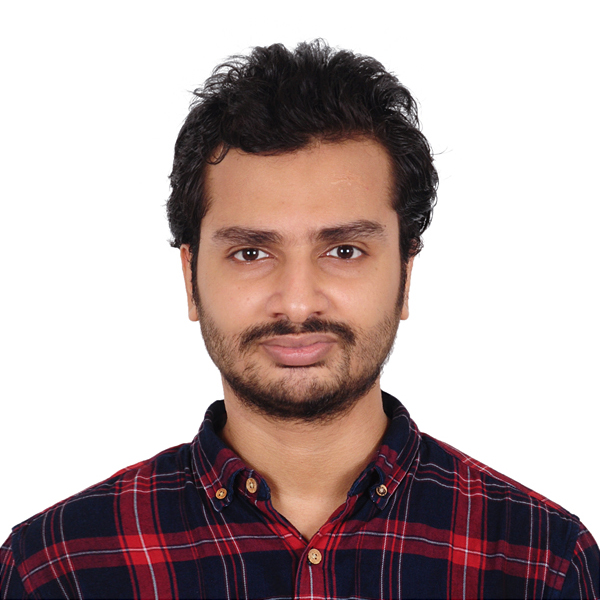
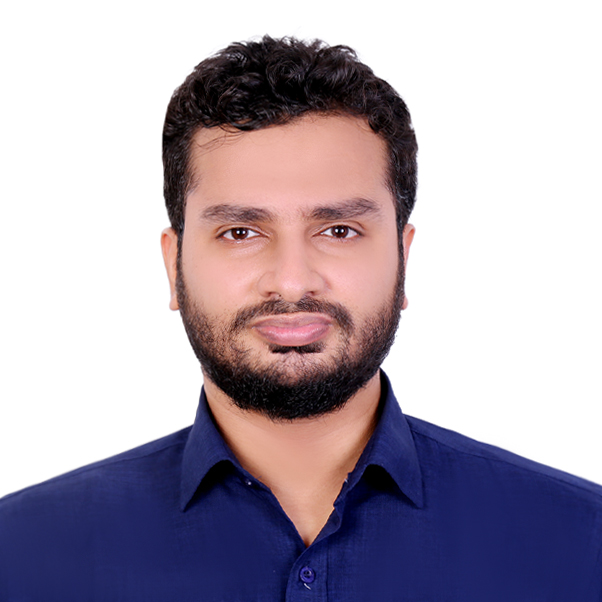
updated

diff --git a/src/Components/About/About.jsx b/src/Components/About/About.jsx
@@ -17,8 +17,10 @@ const About = () => {
             </div>
             <div className='about-right'>
                 <div className='about-para'>
-                    <p>During my academic years, I was the go-to person whenever classmates had issues with their phones or laptops. I was known for resolving any technical challenges that came my way.</p>
-                    <p>Today, not much has changed, I'm still the first point of contact for technical issues. However, now my focus has expanded to developing innovative software solutions. I hold a Bachelor's degree in Computer Science from United International University and currently working as a Frontend Developer with a specialization in React.js. I am also expanding my expertise in Next.js. Additionally, I have strong skills in raw CSS, vanilla JavaScript, and C programming as well.</p>
+                    <p>Communications and media professional with 9+ years of experience in journalism, digital content, media relations, audience engagement, and editorial work. Currently working as a Senior Correspondent at Cricfrenzy, with experience in content planning, research, interviews, storytelling, and digital communications. I also hold a BSc in Computer Science & Engineering and have hands-on experience with React.js and Next.js, giving me a strong mix of communication skills and technical knowledge. I have worked closely with editorial, production, and digital teams to create engaging content, manage projects, and meet tight deadlines. I am now looking to bring this experience into a corporate communications or public relations role, where I can build meaningful communication, manage media relationships, and contribute to a company’s brand and reputation.
+</p>
+                    <p>I combine professional communication experience with a technology background, holding a BSc in Computer Science & Engineering and hands-on React.js and Next.js experience. My work centers on communication, storytelling, and audience understanding, supported by technical skills for today’s digital-first environments. I have also built my own portfolio website, allowing me to put my technical skills into practice and better understand the digital side of communication.
+</p>
                     <p>For further inquiries feel free to reach out via mail at intesarshawon@gmail.com or contact me at +880-1676 331312</p>
                 </div>
                 <div className='about-skills'>
@@ -53,13 +55,13 @@ const About = () => {
 
         <div className='about-achievements'>
             <div className='about-achievement'>
-                <h1>2+</h1>
+                <h1>5+</h1>
                 <p>Years of Experience in Vanila JavaScript</p>
             </div>
             <hr/>
             <div className='about-achievement'>
-                <h1>8</h1>
-                <p>Months of Experience in React</p>
+                <h1>2+</h1>
+                <p>Years of Experience in React</p>
             </div>
             <hr/>
             <div className='about-achievement'>

diff --git a/src/Components/Services/Services.jsx b/src/Components/Services/Services.jsx
@@ -7,11 +7,21 @@ const Services = () => {
   return (
     <div id='services' className='services'>
         <div className='services-title'>
-            <h1>My Services</h1>
+            {/* <h1>My Services</h1> */}
+            <h1>Skills</h1>
             <img src={theme_pattern} alt='theme_pattern' />
         </div>
         <div className='services-container'>
-              <p>Before my graduation, I worked for Cricfrenzy.com as a part-time contributor, writing content about sports. After my graduation , In 2020 I developed an interest in learning frontend development. Since then, I have gradually learned about html, CSS, and JavaScript. I also worked with our backend developer as an instructor to improve our site. During this time, I was working as a content creator by writing sports article and also a frontend developer, implementing necessary changes to the site on a weekly basis as the design evolved. In 2024, I began focusing on learning React JS while I have no professional experience as a React developer, but my solid foundation in html, CSS, and vanilla JavaScript gives me the confidence to build extensively with React. I am also aiming to complete my learning of Next.js in the near future.</p>
+              {/* <p>Before my graduation, I worked for Cricfrenzy.com as a part-time contributor, writing content about sports. After my graduation , In 2020 I developed an interest in learning frontend development. Since then, I have gradually learned about html, CSS, and JavaScript. I also worked with our backend developer as an instructor to improve our site. During this time, I was working as a content creator by writing sports article and also a frontend developer, implementing necessary changes to the site on a weekly basis as the design evolved. In 2024, I began focusing on learning React JS while I have no professional experience as a React developer, but my solid foundation in html, CSS, and vanilla JavaScript gives me the confidence to build extensively with React. I am also aiming to complete my learning of Next.js in the near future.</p> */}
+              <p>Corporate & Strategic Communications</p>
+              <p>Content Strategy , News & Feature Writing</p>
+              <p>Editing, Proofreading & Documentation</p>
+              <p>Research, Analysis, Storytelling & Digital Communications</p>
+              <p>Team Lead & Deadline Management</p>
+              <p>Project Management & Media Coverage</p>
+              <p>Video Content & Digital Marketing</p>
+              <p>Web Development, React.js, Next.js & JavaScript</p>
+
         </div>
     </div>
   )

diff --git a/src/Components/Navbar/Navbar.jsx b/src/Components/Navbar/Navbar.jsx
@@ -44,7 +44,7 @@ const Navbar = () => {
             <img className='nav-mob-close' src={menu_close} alt='menu_close' onClick={closeMenu} />
             <li><AnchorLink className='anchor-link' href='#home'><p onClick={()=> setMenu('home')}>Home</p></AnchorLink>{menu==='home' ? <img src={underline} alt='underline'/> : <></>}</li>
             <li><AnchorLink className='anchor-link' offset={50} href='#about'><p onClick={()=> setMenu('about')}>About Me</p></AnchorLink>{menu === 'about' ? <img src={underline} alt='underline'/> : <></>}</li>
-            <li><AnchorLink className='anchor-link' offset={50} href='#services'><p onClick={()=> setMenu('services')}>Services</p></AnchorLink>{menu === 'services' ? <img src={underline} alt='underline'/> : <></>}</li>
+            <li><AnchorLink className='anchor-link' offset={50} href='#services'><p onClick={()=> setMenu('services')}>Skills</p></AnchorLink>{menu === 'services' ? <img src={underline} alt='underline'/> : <></>}</li>
             <li><AnchorLink className='anchor-link' offset={50} href='#mywork'><p onClick={()=> setMenu('work')}>Portfolio</p></AnchorLink>{menu === 'work' ? <img src={underline} alt='underline'/> : <></>}</li>
             <li><AnchorLink className='anchor-link' offset={50} href='#contact'><p onClick={()=> setMenu('contact')}>Contact</p></AnchorLink>{menu === 'contact' ? <img src={underline} alt='underline'/> : <></>}</li>
         </ul>

diff --git a/src/Components/Hero/Hero.jsx b/src/Components/Hero/Hero.jsx
@@ -16,12 +16,12 @@ const Hero = () => {
   return (
     <div id='home' className='hero'>
         <img src={Intesar_Alam_Shawon} alt='Intesar_Alam_Shawon' />
-        <h1><span>I am Intesar Shawon</span>, <b> Frontend Developer based in Bangladesh </b></h1>
+        <h1><span>I am Intesar Shawon</span>, <b> Communications & Media Professional  </b></h1>
         
         <div className= 'hero-action'>
-            <div className= 'hero-resume' onClick={onMyResumeClick}>
+            {/* <div className= 'hero-resume' onClick={onMyResumeClick}>
                My Resume  
-            </div>
+            </div> */}
             <Link className= 'hero-github' to="https://github.com/INTESARSHAWON" target='_blank'> <div> <FaGithub/> Github </div> </Link>
             <Link className= 'hero-linkedin' to="https://www.linkedin.com/in/intesar-shawon-292752179/" target='_blank'> <div> Linked<FaLinkedin/> </div> </Link>
         </div>
